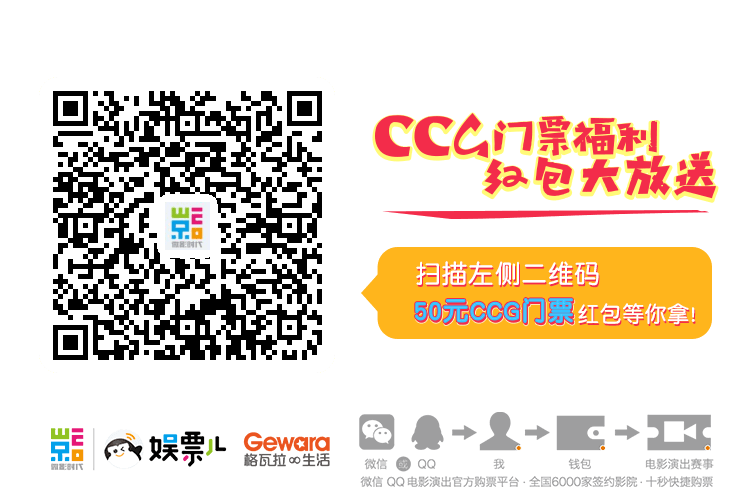
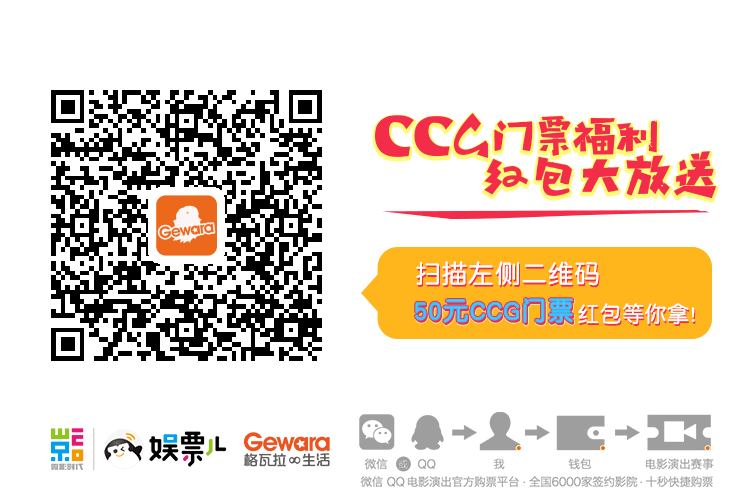
qrcode

Changed region(s): [[0.0613, 0.18, 0.4293, 0.72]]

diff --git a/public/view/activities/ticketcp/h5/wepiao/css/style.css b/public/view/activities/ticketcp/h5/wepiao/css/style.css
@@ -265,7 +265,7 @@ html.hidden {
   .container .qrcode {
     width: 100%;
     height: 6.66667rem;
-    background: url("../img/qrcode.png") no-repeat;
+    background: url("../img/qrcode.png?v=2") no-repeat;
     background-size: cover; }
   .container .rule {
     margin-top: 0.2rem;

diff --git a/public/view/activities/ticketcp/h5/wepiao/sass/style.scss b/public/view/activities/ticketcp/h5/wepiao/sass/style.scss
@@ -98,7 +98,7 @@ html.hidden{
     .qrcode{
         width: 100%;
         height: 500/$px2rem;
-        background: url('../img/qrcode.png') no-repeat;
+        background: url('../img/qrcode.png?v=2') no-repeat;
         background-size: cover;
     }
     .rule{
